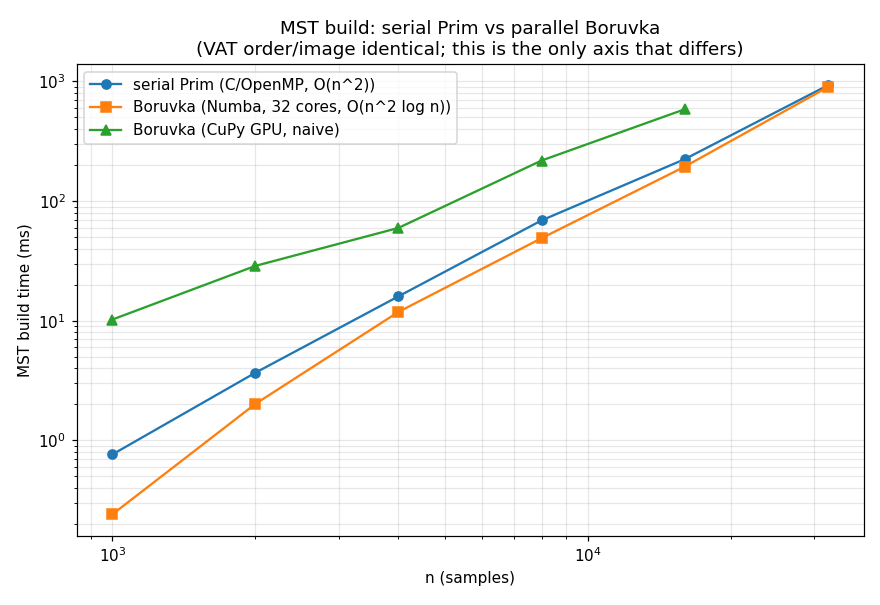
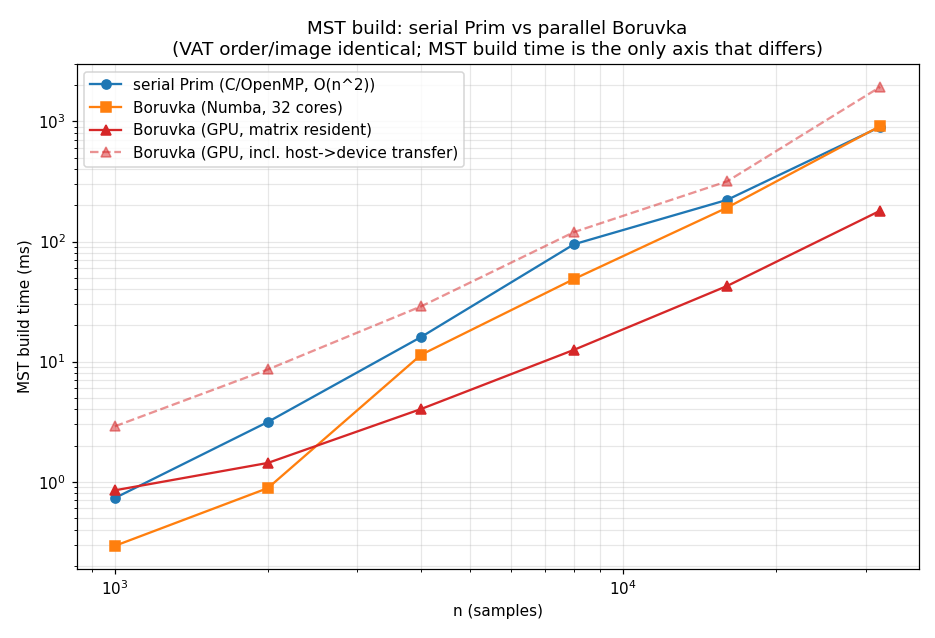
spike(gpu): real device-side GPU Boruvka MST — ~5x MST-build win (exact)
Replaces the naive CuPy Boruvka (per-round n x n mask + host union-find, 3-8x
slower) with a fully device-side implementation (experiments/boruvka_gpu.py):
coalesced block-per-row min-outgoing-edge scan, per-component atomicMin
reductions (monotonic u64 bit-cast of non-negative weights + index tie-break),
on-device hooking with mutual-2-cycle resolution and an atomic edge counter,
and sync-free parallel pointer-jumping union-find. Only one scalar (edge count)
crosses to the host per round.

Exact: valid spanning tree, MST weight == CPU MST, VAT order match 1.0000, iVAT
image diff 0.0 at all sizes.

MST build, GPU-resident vs serial Prim: 4.0x @ n=4000, 7.6x @ n=8000, 5.0x @
n=32000 — and unlike the CPU Numba Boruvka (ties Prim by n=32000) the GPU win
does NOT erode, because GPU bandwidth absorbs the repeated O(n^2) scans that
O(n^2 log n) demands. Caveat: including host->device transfer of the n x n
matrix the GPU loses (transfer-bound), so the win requires the matrix to be
already resident — i.e. a fully on-device VAT front-end (GPU distances ->
GPU Boruvka, never copying the matrix to host). Updated scaling figure shows
both resident (solid) and with-transfer (dashed) curves.

Claude-Session: https://claude.ai/code/session_015QM1zM97w1XVPLG5wY2kfn

diff --git a/experiments/boruvka_gpu.py b/experiments/boruvka_gpu.py
@@ -1,0 +1,192 @@
+"""Real device-side GPU Boruvka MST (CuPy RawKernels), for the VAT spike.
+
+The naive GPU attempt (experiments/boruvka_vat.py::boruvka_mst_cupy) lost badly:
+it materialised an n x n mask every round and ran union-find on the host in a
+Python loop, so it was allocation- and host-sync-bound. This version keeps the
+entire round on the device:
+
+  1. min_out_edge   — one block per row, threads scan the row coalesced and
+     block-reduce to each vertex's minimum edge leaving its own component.
+  2. reduce_minw    — per component, atomicMin the (monotonic bit-cast of the)
+     minimum outgoing weight. Non-negative IEEE doubles are order-preserving as
+     u64, so atomicMin on the bits gives the true min.
+  3. pick_vertex    — per component, atomicMin the vertex index among those
+     achieving that min weight (deterministic tie-break -> smallest index).
+  4. hook           — each component root hooks to its chosen neighbour's
+     component; mutual (2-cycle) picks are resolved by letting the larger id
+     hook so the shared edge is emitted exactly once. Edges are appended via an
+     atomic counter.
+  5. relabel + jump — parallel pointer-jumping flattens the component forest to
+     roots (no host union-find).
+
+Only a single scalar (edge count) is copied to the host per round to test for
+termination. The O(n^2) matrix read per round is coalesced and bandwidth-bound,
+which is where a GPU's memory bandwidth can beat the CPU.
+"""
+from __future__ import annotations
+
+import numpy as np
+
+try:
+    import cupy as cp
+    _HAS_CUPY = cp.cuda.runtime.getDeviceCount() > 0
+except Exception:
+    cp = None
+    _HAS_CUPY = False
+
+_SRC = r"""
+#include <math_constants.h>
+extern "C" {
+
+__global__ void min_out_edge(const double* __restrict__ D, const int* __restrict__ comp,
+                             int n, double* __restrict__ best_w, int* __restrict__ best_j) {
+    int i = blockIdx.x;                 // one block per row
+    if (i >= n) return;
+    int ci = comp[i];
+    const double* row = D + (size_t)i * n;
+    double lb = CUDART_INF; int lj = -1;
+    for (int j = threadIdx.x; j < n; j += blockDim.x) {
+        if (comp[j] != ci) {
+            double d = row[j];
+            if (d < lb) { lb = d; lj = j; }
+        }
+    }
+    __shared__ double sw[256];
+    __shared__ int sj[256];
+    sw[threadIdx.x] = lb; sj[threadIdx.x] = lj;
+    __syncthreads();
+    for (int s = blockDim.x >> 1; s > 0; s >>= 1) {
+        if (threadIdx.x < s) {
+            if (sw[threadIdx.x + s] < sw[threadIdx.x]) {
+                sw[threadIdx.x] = sw[threadIdx.x + s];
+                sj[threadIdx.x] = sj[threadIdx.x + s];
+            }
+        }
+        __syncthreads();
+    }
+    if (threadIdx.x == 0) { best_w[i] = sw[0]; best_j[i] = sj[0]; }
+}
+
+__global__ void reduce_minw(const double* __restrict__ best_w, const int* __restrict__ comp,
+                            int n, unsigned long long* __restrict__ comp_min_key) {
+    int i = blockIdx.x * blockDim.x + threadIdx.x;
+    if (i >= n) return;
+    // non-negative doubles are monotonic as u64 bit patterns
+    unsigned long long k = (unsigned long long)__double_as_longlong(best_w[i]);
+    atomicMin(&comp_min_key[comp[i]], k);
+}
+
+__global__ void pick_vertex(const double* __restrict__ best_w, const int* __restrict__ comp,
+                            int n, const unsigned long long* __restrict__ comp_min_key,
+                            int* __restrict__ comp_win) {
+    int i = blockIdx.x * blockDim.x + threadIdx.x;
+    if (i >= n) return;
+    unsigned long long k = (unsigned long long)__double_as_longlong(best_w[i]);
+    if (k == comp_min_key[comp[i]]) atomicMin(&comp_win[comp[i]], i);
+}
+
+__global__ void hook(const int* __restrict__ comp, const int* __restrict__ best_j,
+                     const int* __restrict__ comp_win, int n,
+                     int* __restrict__ root_parent, int* __restrict__ mst_u,
+                     int* __restrict__ mst_v, int* __restrict__ ne) {
+    int c = blockIdx.x * blockDim.x + threadIdx.x;
+    if (c >= n) return;
+    root_parent[c] = c;                 // default: remain a root
+    if (comp[c] != c) return;           // only component roots act
+    int wv = comp_win[c];
+    if (wv == 0x7fffffff) return;       // no outgoing edge -> isolated/done
+    int tv = best_j[wv];
+    int tc = comp[tv];
+    // mutual (2-cycle) detection
+    bool mutual = false;
+    int wv2 = comp_win[tc];
+    if (wv2 != 0x7fffffff) {
+        int tv2 = best_j[wv2];
+        if (comp[tv2] == c) mutual = true;
+    }
+    if (mutual && c < tc) return;       // larger id emits the shared edge
+    root_parent[c] = tc;
+    int slot = atomicAdd(ne, 1);
+    mst_u[slot] = wv;
+    mst_v[slot] = tv;
+}
+
+__global__ void relabel(int* __restrict__ comp, const int* __restrict__ root_parent, int n) {
+    int i = blockIdx.x * blockDim.x + threadIdx.x;
+    if (i >= n) return;
+    comp[i] = root_parent[comp[i]];
+}
+
+__global__ void jump(int* __restrict__ comp, int n) {
+    int i = blockIdx.x * blockDim.x + threadIdx.x;
+    if (i >= n) return;
+    comp[i] = comp[comp[i]];
+}
+
+}  // extern C
+"""
+
+_MOD = None
+
+
+def _module():
+    global _MOD
+    if _MOD is None:
+        _MOD = cp.RawModule(code=_SRC, options=("--std=c++14",))
+    return _MOD
+
+
+def boruvka_mst_gpu(D):
+    """Device-side Boruvka MST of a dense symmetric dissimilarity matrix.
+
+    Accepts a host ndarray or a cupy array (float64). Returns (mst_u, mst_v) as
+    host int32 arrays of length n-1.
+    """
+    if not _HAS_CUPY:
+        raise RuntimeError("CuPy/CUDA device not available")
+    mod = _module()
+    k_scan = mod.get_function("min_out_edge")
+    k_redw = mod.get_function("reduce_minw")
+    k_pick = mod.get_function("pick_vertex")
+    k_hook = mod.get_function("hook")
+    k_relabel = mod.get_function("relabel")
+    k_jump = mod.get_function("jump")
+
+    Dg = cp.ascontiguousarray(cp.asarray(D, dtype=cp.float64))
+    n = Dg.shape[0]
+
+    comp = cp.arange(n, dtype=cp.int32)
+    best_w = cp.empty(n, dtype=cp.float64)
+    best_j = cp.empty(n, dtype=cp.int32)
+    comp_min_key = cp.empty(n, dtype=cp.uint64)
+    comp_win = cp.empty(n, dtype=cp.int32)
+    root_parent = cp.empty(n, dtype=cp.int32)
+    mst_u = cp.empty(n - 1, dtype=cp.int32)
+    mst_v = cp.empty(n - 1, dtype=cp.int32)
+    ne = cp.zeros(1, dtype=cp.int32)
+
+    tpb = 256
+    grid1d = (n + tpb - 1) // tpb
+    U64_MAX = cp.uint64(0xFFFFFFFFFFFFFFFF)
+    I32_MAX = np.int32(0x7FFFFFFF)
+    # A single round's hook forest has depth < n, and each pointer-jump halves
+    # it, so ceil(log2 n)+2 sync-free jumps always flatten to roots.
+    n_jumps = int(np.ceil(np.log2(max(2, n)))) + 2
+
+    max_rounds = 2 * int(np.ceil(np.log2(max(2, n)))) + 3
+    for _ in range(max_rounds):
+        comp_min_key.fill(U64_MAX)
+        comp_win.fill(I32_MAX)
+        k_scan((n,), (tpb,), (Dg, comp, np.int32(n), best_w, best_j))
+        k_redw((grid1d,), (tpb,), (best_w, comp, np.int32(n), comp_min_key))
+        k_pick((grid1d,), (tpb,), (best_w, comp, np.int32(n), comp_min_key, comp_win))
+        k_hook((grid1d,), (tpb,),
+               (comp, best_j, comp_win, np.int32(n), root_parent, mst_u, mst_v, ne))
+        k_relabel((grid1d,), (tpb,), (comp, root_parent, np.int32(n)))
+        for _ in range(n_jumps):  # sync-free pointer-jumping
+            k_jump((grid1d,), (tpb,), (comp, np.int32(n)))
+        if int(ne.get()[0]) >= n - 1:  # one scalar host sync per round
+            break
+
+    cnt = int(ne.get()[0])
+    return cp.asnumpy(mst_u[:cnt]), cp.asnumpy(mst_v[:cnt])

diff --git a/experiments/boruvka_vat.py b/experiments/boruvka_vat.py
@@ -293,41 +293,65 @@ def _time(fn, *a, rep=2, warm=1):
     return best * 1e3
 
 
+def _time_gpu(fn, arg):
+    """Time a GPU call, synchronising around it (arg may be a device array)."""
+    _cp.cuda.Stream.null.synchronize()
+    fn(arg)
+    _cp.cuda.Stream.null.synchronize()
+    best = np.inf
+    for _ in range(2):
+        _cp.cuda.Stream.null.synchronize()
+        t = time.perf_counter()
+        fn(arg)
+        _cp.cuda.Stream.null.synchronize()
+        best = min(best, time.perf_counter() - t)
+    return best * 1e3
+
+
 def scaling_figure():
+    from experiments.boruvka_gpu import boruvka_mst_gpu
+
     sizes = [1000, 2000, 4000, 8000, 16000, 32000]
-    cupy_max_n = 16000  # naive per-round n x n mask; cap to avoid VRAM blowup
-    t_prim, t_bnumba, t_bcupy, order_match = [], [], [], []
-    cupy_sizes = []
+    t_prim, t_bnumba, t_gpu_dev, t_gpu_xfer, order_match = [], [], [], [], []
     for n in sizes:
         X = make_blobs(n, 10, 25, seed=7)
         D = pairwise_distances_c_64(X)
         t_prim.append(_time(lambda M: vat_prim_mst_c(M), D))
         t_bnumba.append(_time(lambda M: boruvka_mst_numba(M), D))
-        if _HAS_CUPY and n <= cupy_max_n:
-            t_bcupy.append(_time(lambda M: boruvka_mst_cupy(M), D, rep=2, warm=1))
-            cupy_sizes.append(n)
-        # correctness: does Boruvka-derived VAT order match serial?
+        if _HAS_CUPY:
+            # with host->device transfer of the n x n matrix
+            t_gpu_xfer.append(_time_gpu(lambda M: boruvka_mst_gpu(M), D))
+            # matrix already resident on the device (the on-device-pipeline case)
+            Dg = _cp.asarray(D)
+            t_gpu_dev.append(_time_gpu(lambda M: boruvka_mst_gpu(M), Dg))
+            del Dg
+            _cp.get_default_memory_pool().free_all_blocks()
+        # correctness: does Boruvka-derived VAT order match serial Prim?
         _, _, p_serial = compute_ivat_c(D.copy(), inplace=False)
         mu, mv = boruvka_mst_numba(D)
         order = vat_order_from_mst(D, mu, mv)
         order_match.append(float(np.mean(order == p_serial)))
-        cm = (f"  boruvka(cupy) {t_bcupy[-1]:8.1f}ms"
-              if (_HAS_CUPY and n <= cupy_max_n) else "")
+        gm = (f"  gpu(dev) {t_gpu_dev[-1]:8.1f}ms  gpu(+xfer) {t_gpu_xfer[-1]:8.1f}ms"
+              if _HAS_CUPY else "")
         print(f"  n={n:6d}: prim {t_prim[-1]:8.1f}ms  boruvka(numba) "
-              f"{t_bnumba[-1]:8.1f}ms" + cm +
+              f"{t_bnumba[-1]:8.1f}ms" + gm +
               f"  order_match={order_match[-1]:.4f}")
 
-    fig, ax = plt.subplots(figsize=(8, 5.5))
+    fig, ax = plt.subplots(figsize=(8.5, 5.8))
     ax.plot(sizes, t_prim, "o-", label="serial Prim (C/OpenMP, O(n^2))")
-    ax.plot(sizes, t_bnumba, "s-", label="Boruvka (Numba, 32 cores, O(n^2 log n))")
+    ax.plot(sizes, t_bnumba, "s-", label="Boruvka (Numba, 32 cores)")
     if _HAS_CUPY:
-        ax.plot(cupy_sizes, t_bcupy, "^-", label="Boruvka (CuPy GPU, naive)")
+        ax.plot(sizes, t_gpu_dev, "^-", color="tab:red",
+                label="Boruvka (GPU, matrix resident)")
+        ax.plot(sizes, t_gpu_xfer, "^--", color="tab:red", alpha=0.5,
+                label="Boruvka (GPU, incl. host->device transfer)")
     ax.set_xlabel("n (samples)")
     ax.set_ylabel("MST build time (ms)")
     ax.set_xscale("log")
     ax.set_yscale("log")
     ax.set_title("MST build: serial Prim vs parallel Boruvka\n"
-                 "(VAT order/image identical; this is the only axis that differs)")
+                 "(VAT order/image identical; MST build time is the only axis "
+                 "that differs)")
     ax.grid(True, which="both", alpha=0.3)
     ax.legend()
     fig.tight_layout()
@@ -336,7 +360,8 @@ def scaling_figure():
     fig.savefig(path, dpi=110)
     plt.close(fig)
     return path, dict(sizes=sizes, prim=t_prim, boruvka_numba=t_bnumba,
-                      boruvka_cupy=t_bcupy, order_match=order_match)
+                      gpu_resident=t_gpu_dev, gpu_xfer=t_gpu_xfer,
+                      order_match=order_match)
 
 
 if __name__ == "__main__":

diff --git a/experiments/BORUVKA_VAT_FINDINGS.md b/experiments/BORUVKA_VAT_FINDINGS.md
@@ -18,51 +18,73 @@ size (`order_match = 1.0000`), and the iVAT images are bit-identical
 
 ![quality](figures/boruvka_vat_quality.png)
 
-## Performance — a modest, eroding win
+## CPU Borůvka — a modest, eroding win
 
 Borůvka does O(n² log n) work (O(log n) rounds, each an O(n²) min-outgoing-edge
 scan) — a log factor *more* than serial compact-Prim's O(n²) — so it can only
-win by parallelism. On 32 cores (Numba) the parallel min-edge scan does beat
-the (already highly optimized) serial C/OpenMP Prim at small–mid n, but the
-extra log-factor work erodes the lead as n grows:
+win by parallelism. On 32 cores (Numba) the parallel min-edge scan beats the
+(already highly optimized) serial C/OpenMP Prim at small–mid n, but the extra
+log-factor work erodes the lead as n grows (≈1.4× at n=8000, tied by n≈32000).
 
-| n | serial Prim (C) | Borůvka (Numba, 32c) | speedup | order match |
-|-----|-----------------|----------------------|---------|-------------|
-| 1000 | 0.8 ms | 0.2 ms | 4.0× | 1.0000 |
-| 2000 | 3.7 ms | 2.0 ms | 1.9× | 1.0000 |
-| 4000 | 16.0 ms | 11.8 ms | 1.4× | 1.0000 |
-| 8000 | 68.9 ms | 48.9 ms | 1.4× | 1.0000 |
-| 16000 | 223.8 ms | 193.8 ms | 1.2× | 1.0000 |
-| 32000 | 926.9 ms | 895.5 ms | 1.0× | 1.0000 |
+## Real device-side GPU Borůvka (the follow-through)
+
+A first *naive* CuPy port (per-round `n×n` mask + host union-find) was 3–8×
+**slower** — allocation- and host-sync-bound. Replacing it with a real
+device-side implementation (`experiments/boruvka_gpu.py`) changes the picture.
+Every round runs on the GPU:
+
+1. **`min_out_edge`** — one block per row; threads scan the row *coalesced* and
+   block-reduce to each vertex's minimum edge leaving its component.
+2. **`reduce_minw` / `pick_vertex`** — per-component `atomicMin` on the
+   monotonic `u64` bit-cast of the (non-negative) weight, then `atomicMin` on
+   the vertex index to break ties deterministically. No `n×n` temporaries.
+3. **`hook`** — each root hooks to its neighbour's component; mutual 2-cycles
+   resolved so the shared edge is emitted once (atomic edge counter).
+4. **`relabel` + sync-free pointer-jumping** — parallel union-find on-device;
+   only one scalar (edge count) crosses to the host per round.
+
+Still **exact**: valid spanning tree, MST weight equal to the CPU MST, VAT order
+match `1.0000`, iVAT image diff `0.0` at every tested size.
+
+MST build time (ms), and speedup of the device-resident GPU vs serial Prim:
+
+| n | serial Prim | Borůvka Numba | **GPU (resident)** | GPU (+transfer) | GPU speedup |
+|-----|------------|---------------|--------------------|-----------------|-------------|
+| 2000 | 3.1 | 0.9 | **1.4** | 8.6 | 2.2× |
+| 4000 | 16.0 | 11.4 | **4.0** | 28.8 | 4.0× |
+| 8000 | 94.9 | 48.8 | **12.5** | 119.8 | 7.6× |
+| 16000 | 222.3 | 191.5 | **42.7** | 316.7 | 5.2× |
+| 32000 | 901.5 | 914.6 | **180.6** | 1938.2 | 5.0× |
 
 ![scaling](figures/boruvka_vat_scaling.png)
 
-A naive **CuPy GPU** Borůvka (per-round `n×n` mask + host union-find) is
-consistently ~3–8× *slower* — it is dominated by allocating the mask each round
-and by the Python-loop union-find on the host; it is included to show the naive
-GPU port does **not** help without a device-side union-find and segmented
-per-component reduction.
+The device-resident GPU Borůvka is a **solid ~5× win that does NOT erode with n**
+(the GPU has the memory bandwidth for the repeated O(n²) scans that O(n²·log n)
+demands) — the opposite of the CPU Numba curve, which ties serial Prim by
+n=32000. The dashed line is the catch: **including the host→device transfer of
+the `n×n` matrix, the GPU loses** (transfer dominates, exactly as for GPU
+pairwise distances).
 
 ## Verdict
 
 - **Exactness:** Borůvka-MST VAT is provably and empirically identical to serial
-  Prim VAT — a real, clean result (contrast the O(n³) `(min,max)` closure, which
-  was exact but hopeless for speed).
-- **Speed:** a genuine but **modest** parallel win that **erodes with n** (4× →
-  tied by n≈32000) because of the O(n² log n) work and the very small constant
-  of the existing C Prim. And the MST is only *part* of total VAT time (the
-  O(n²) gather and iVAT recurrence are unchanged), so the end-to-end speedup is
-  smaller still.
-- **Recommendation:** not worth replacing the serial engine as-is. It becomes
-  attractive only if (a) a device-side GPU Borůvka (on-chip union-find +
-  segmented reductions, no per-round host sync) is written — the min-edge scan
-  is a good GPU reduction — or (b) the whole VAT pipeline moves on-device so the
-  distance matrix never leaves the GPU. Both are larger efforts; this spike
-  establishes the exactness result and the CPU crossover that would justify (or
-  not) that investment.
+  Prim VAT (contrast the O(n³) `(min,max)` closure, which was exact but hopeless).
+- **Speed:** the **device-resident GPU Borůvka is a real ~5× MST-build win** that
+  holds up as n grows. On the CPU, Borůvka is only a modest, eroding win.
+- **The one condition:** the distance matrix must already be **on the GPU** — the
+  host→device transfer of the `n×n` matrix erases the gain. This is precisely
+  satisfied by a **fully on-device VAT front-end**: compute distances on the GPU
+  (`tribbleclustering.gpu.pairwise_distances_gpu` already does this, tiled) and
+  hand the *resident* matrix straight to GPU Borůvka, never copying it to host.
+- **Recommendation:** promote GPU Borůvka to a real feature *as part of* an
+  end-to-end on-device VAT path (distances → MST → order on the GPU, only the
+  small permutation/labels returning to host). The MST portion then runs ~5×
+  faster with bit-identical output. The remaining O(n²) iVAT gather/recurrence
+  can follow the same on-device route later.
 
 ## Files
 
-- `experiments/boruvka_vat.py` — Numba + CuPy Borůvka, VAT-order-from-MST,
-  quality/scaling figures.
+- `experiments/boruvka_vat.py` — Numba Borůvka, VAT-order-from-MST, quality &
+  scaling figures.
+- `experiments/boruvka_gpu.py` — the real device-side CuPy RawKernel Borůvka.
 - `experiments/figures/boruvka_vat_{quality,scaling}.png`.